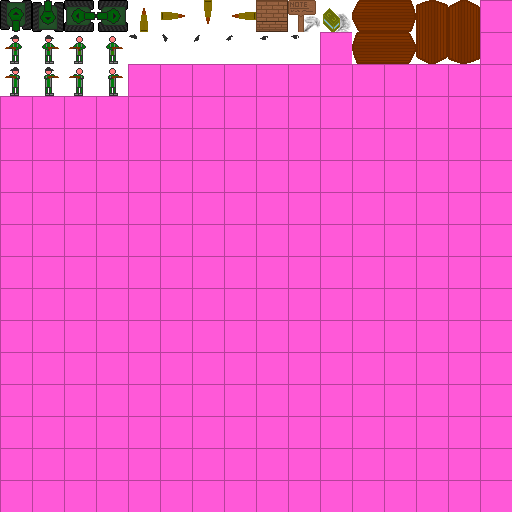
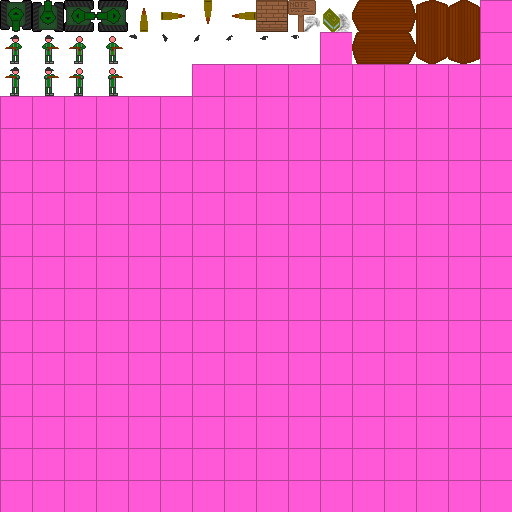
Added clouds for scenery

Changed region(s): [[0.25, 0.125, 0.375, 0.1875]]

diff --git a/game/screen/ScreenMapEditor.java b/game/screen/ScreenMapEditor.java
@@ -5,6 +5,7 @@ import game.Map;
 import game.entity.Entity;
 import game.entity.EntityAmmo;
 import game.entity.EntityBox;
+import game.entity.EntityCloud;
 import game.entity.EntityExplosion;
 import game.entity.EntitySign;
 import game.entity.Player;
@@ -90,6 +91,7 @@ public class ScreenMapEditor extends Screen {
 		entityRegistry.add(new EntityExplosion());
 		entityRegistry.add(new EntitySign());
 		entityRegistry.add(new Player());
+		entityRegistry.add(new EntityCloud());
 		triggerRegistry.add(new TriggerPlate());
 		triggerRegistry.add(new TriggerGameWin());
 

diff --git a/game/entity/EntityCloud.java b/game/entity/EntityCloud.java
@@ -1,0 +1,37 @@
+package game.entity;
+
+import game.screen.ScreenGame;
+
+import java.awt.Graphics;
+import java.util.Random;
+
+public class EntityCloud extends Entity
+{
+
+	Random rand = new Random();
+	
+	public EntityCloud()
+	{
+		sprite = 36;
+	}
+	public EntityCloud(ScreenGame game, int x, int y) {
+		super(game);
+		this.x = x;
+		this.y = y;
+		this.game = game.game;
+		rand = new Random();
+		this.sprite = 36+rand.nextInt(1);
+	}
+	
+	@Override
+	public void tick() {
+
+		
+		if(rand.nextInt(200) == 1)
+		this.x -= 1;
+			
+		
+	}
+	
+	
+}

diff --git a/game/tile/Tile.java b/game/tile/Tile.java
@@ -30,7 +30,8 @@ public class Tile implements Serializable {
 			new TileWood(),
 			new TileCarpet(0),
 			new TileCarpet(1),
-			new TileCarpet(2)};
+			new TileCarpet(2),
+			new TileSky()};
 
 	boolean canPassThrough = true;
 	public int sprite = 0;

diff --git a/game/tile/TileSky.java b/game/tile/TileSky.java
@@ -1,0 +1,9 @@
+package game.tile;
+
+public class TileSky extends Tile
+{
+	public String tileName = "Sky";
+	public TileSky() {
+		sprite = 9;
+	}
+}
